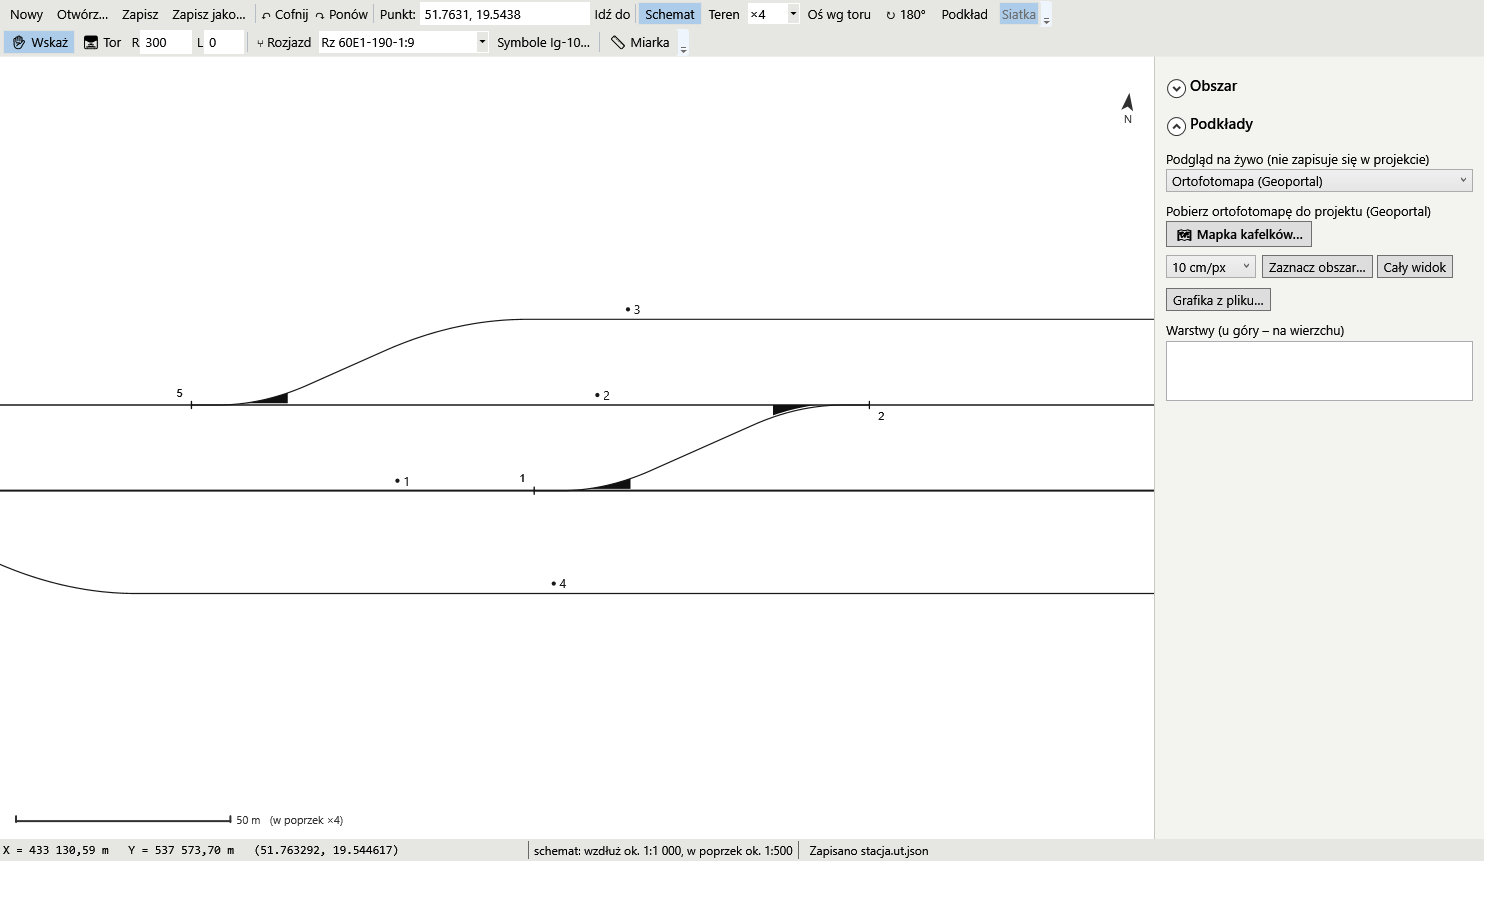
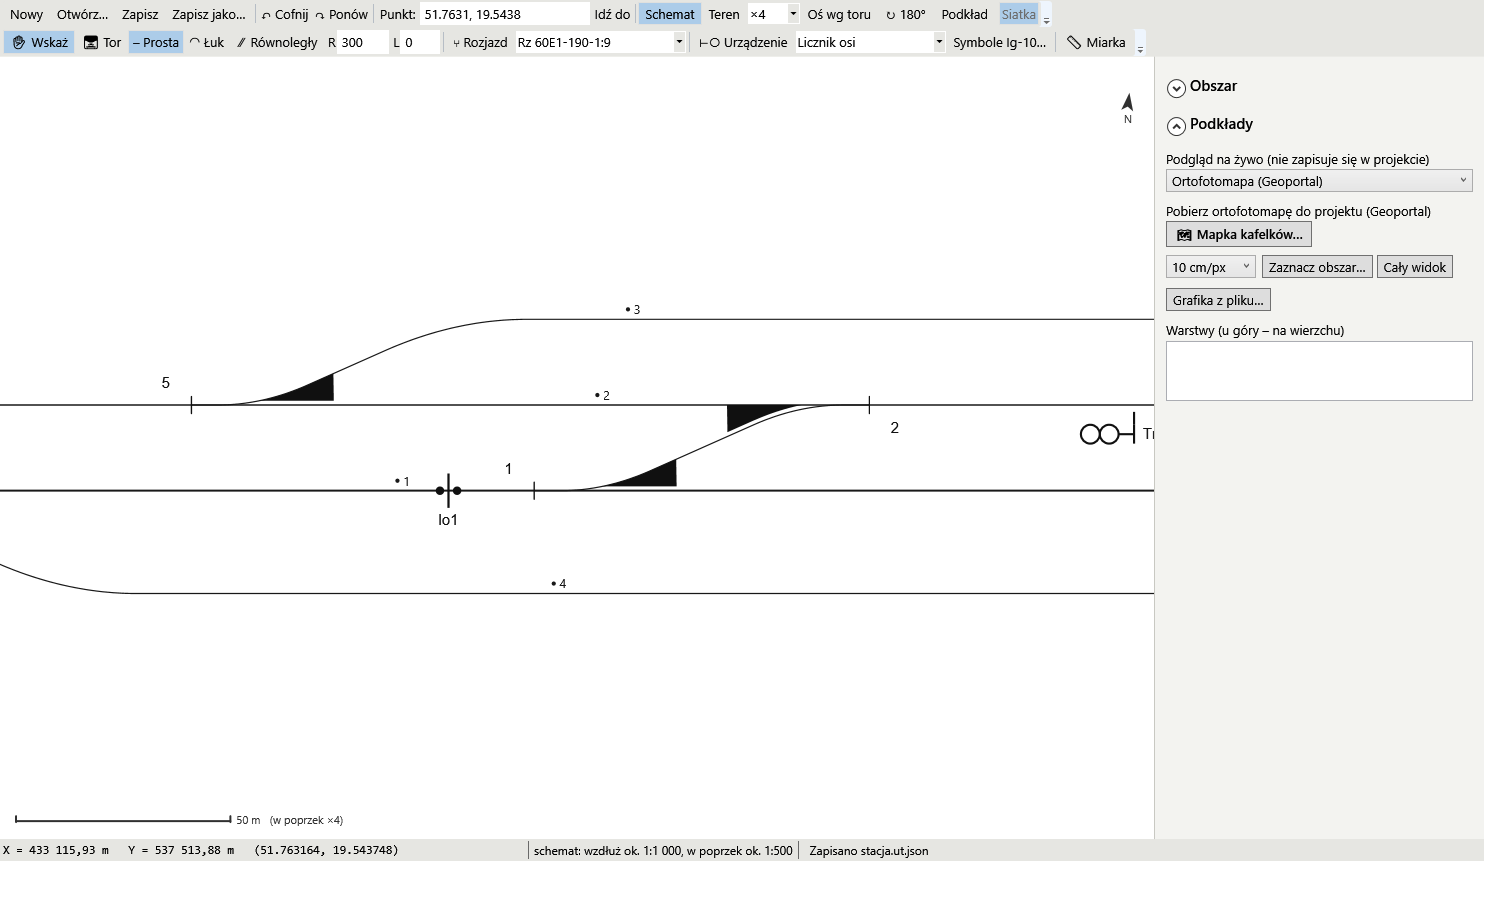
Edytor UT: znaki w skali arkusza Ig-10 (1:2000 / 1:500), oś schematu wg kilometrażu
- PxPerMm = (skala / 4000 m) · rozciągnięcie / mpp – znaki skalują się razem z torami
  jak na arkuszu (dotąd przycięte 2,2–3,6 px/mm niezależnie od rysunku); napisy 10–15 px,
  ukryte poniżej 1 px/mm.
- Skala arkusza w panelu: 1:2000 / 1:500 albo 1:4000 / 1:1000 (Ig-10 § 3).
- Oś schematu: kilometraż rośnie od lewej do prawej (kierunek toru), Ig-10 § 3 ust. 3.
- Test: 0 błędów.

diff --git a/app/Lcs.EdytorUT/UtView.Urzadzenia.cs b/app/Lcs.EdytorUT/UtView.Urzadzenia.cs
@@ -111,8 +111,8 @@ public partial class UtView
     static readonly Pen DevPen = FrozenPen(Color.FromRgb(0x10, 0x10, 0x10), 1.2), DevThick = FrozenPen(Color.FromRgb(0x10, 0x10, 0x10), 2.2);
     static readonly Brush DevInk = Frozen(Color.FromRgb(0x10, 0x10, 0x10));
 
-    /// <summary>Px na mm dla znaków urządzeń: jak rozjazdy, ale nie mniej niż 2,8 (komory semafora czytelne przy oddaleniu).</summary>
-    double DevK => Math.Max(PxPerMm, 2.8);
+    /// <summary>Px na mm dla znaków urządzeń – skala arkusza (jak rozjazdy i tory).</summary>
+    double DevK => PxPerMm;
 
     void DrawDevices(DrawingContext dc, double dpi)
     {
@@ -124,8 +124,8 @@ public partial class UtView
             if (Urzadzenia.Pos(Doc.P, d) is not var (p, az, _)) continue;
             var b = ToScreen(p);
             if (b.X < -100 || b.Y < -100 || b.X > ActualWidth + 100 || b.Y > ActualHeight + 100) continue;
-            if (d.Id == SelectedDevice) dc.DrawEllipse(RzSel, null, b, 7 * PxPerMm / 2.2, 7 * PxPerMm / 2.2);
-            DrawDevice(dc, d, b, ScreenDir(az), DevK, DevInk, dpi);
+            if (d.Id == SelectedDevice) dc.DrawEllipse(RzSel, null, b, Math.Max(8, 4 * PxPerMm), Math.Max(8, 4 * PxPerMm));
+            DrawDevice(dc, d, b, ScreenDir(az), DevK, DevInk, dpi, LabelsOn);
             var notes = Urzadzenia.Check(Doc.P, d0);
             if (notes.Count > 0) { dc.DrawEllipse(null, ErrPen, b, 9, 9); ErrLabel(dc, (d.Name.Length > 0 ? d.Name + ": " : "") + string.Join("; ", notes), b, dpi); }
         }
@@ -140,7 +140,7 @@ public partial class UtView
                 var (sk, dir, side) = DevFromDrag(track, km, hs);
                 var g = new UtDevice { Kind = DevKind, Name = Urzadzenia.NextName(Doc.P, DevKind), Track = track, S = sk, Dir = dir, Side = side };
                 if (Urzadzenia.Pos(Doc.P, g) is var (gp, gaz, _))
-                    DrawDevice(dc, g, ToScreen(gp), ScreenDir(gaz), DevK, Red, dpi);
+                    DrawDevice(dc, g, ToScreen(gp), ScreenDir(gaz), DevK, Red, dpi, true);
                 if (devFrom == null && UtDevice.KindInfo(DevKind).Directed && DevKind != UtDevice.Koziol)
                     Label(dc, "wciśnij i przeciągnij w stronę jazdy, po stronie urządzenia", hs + new Vector(12, 10), Red, dpi);
             }
@@ -151,7 +151,7 @@ public partial class UtView
     /// Znak urządzenia w punkcie <paramref name="b"/> na osi toru: x – w kierunku działania <paramref name="d"/>, y – w stronę urządzenia
     /// (Side), w mm arkusza × <paramref name="k"/>. Komory sygnalizatora od masztu w stronę jazdy (+x), nazwa za stopą (−x).
     /// </summary>
-    static void DrawDevice(DrawingContext dc, UtDevice dv, Point b, Vector d, double k, Brush ink, double dpi)
+    static void DrawDevice(DrawingContext dc, UtDevice dv, Point b, Vector d, double k, Brush ink, double dpi, bool labels)
     {
         var n = new Vector(-d.Y, d.X) * dv.Side;
         Point P(double x, double y) => b + d * (x * k) + n * (y * k);
@@ -164,8 +164,8 @@ public partial class UtView
         }
         void T(string s, double x, double y, double away = 0)
         {
-            if (string.IsNullOrEmpty(s)) return;
-            var ft = new FormattedText(s, CultureInfo.InvariantCulture, FlowDirection.LeftToRight, new Typeface("Arial"), Math.Max(10.5, 1.8 * 1.4 * k), ink, dpi);
+            if (string.IsNullOrEmpty(s) || !labels) return;
+            var ft = new FormattedText(s, CultureInfo.InvariantCulture, FlowDirection.LeftToRight, new Typeface("Arial"), FontPx(k), ink, dpi);
             // away ±1: napis odsunięty od punktu w kierunku ±x znaku o połowę swojej szerokości (nie wchodzi na stopę)
             var c = P(x, y) + d * (away * (ft.Width / 2 + 2));
             dc.DrawText(ft, new Point(c.X - ft.Width / 2, c.Y - ft.Height / 2));

diff --git a/app/Lcs.EdytorUT/UtView.Rozjazdy.cs b/app/Lcs.EdytorUT/UtView.Rozjazdy.cs
@@ -183,7 +183,12 @@ public partial class UtView
     /// Piksele na mm arkusza dla znaków Ig-10: wg skali rysunku, ale w stałym przedziale 2,2–3,6 px/mm (klin 8 mm: 18–29 px) –
     /// znaki czytelne przy oddaleniu i nie puchną przy przybliżaniu.
     /// </summary>
-    public double PxPerMm => Math.Clamp((Doc?.P.DrawingScale ?? 1000) / 1000.0 / mpp, 2.2, 3.6);
+    public double PxPerMm => (Doc?.P.MetresPerSheetMm ?? 0.5) * stretch / mpp;
+
+    /// <summary>Wielkość napisów [px]: tekst 1,8 mm arkusza, ale w granicach 10–15 px (czytelny przy każdym przybliżeniu).</summary>
+    public static double FontPx(double k) => Math.Clamp(1.8 * 1.4 * k, 10, 15);
+    /// <summary>Napisy przy znakach (numery rozjazdów, nazwy urządzeń) – gdy znaki mają co najmniej 1 px/mm.</summary>
+    public bool LabelsOn => PxPerMm >= 1;
 
     /// <summary>Znak rozjazdu z bazy symboli Ig-10 (Dane/symbole_ig10.json): zaczepiony w PR, wzdłuż toru w stronę KR, po stronie odgałęzienia.</summary>
     public static string SymbolFor(UtTurnout t) => t.Manual ? "rz_nieuzal" : t.Zas == "-" ? "rz_uzal_zwrot" : "rz_uzal_wprost";
@@ -200,7 +205,7 @@ public partial class UtView
         if (pr.X < -150 || pr.Y < -150 || pr.X > ActualWidth + 150 || pr.Y > ActualHeight + 150) return;
         double k = PxPerMm;
         var dir = ScreenDir(g.Az);
-        if (sel) dc.DrawEllipse(RzSel, null, pr + dir * (4 * k), 6 * k, 6 * k);
+        if (sel) dc.DrawEllipse(RzSel, null, pr + dir * (4 * k), Math.Max(9, 6 * k), Math.Max(9, 6 * k));
         // odgałęzienie z geometrii typu: PR – ŚR (łuk R) – KR na zwrot
         var br = Trasa.Compute(new[] { new UtVertex { X = g.PR.X, Y = g.PR.Y }, new UtVertex { X = g.SR.X, Y = g.SR.Y, R = g.Typ.R }, new UtVertex { X = g.KRDiv.X, Y = g.KRDiv.Y } }, g.K);
         var pts = br.Sample(0.5).Select(q => ToScreen(q.P)).ToList();
@@ -217,8 +222,8 @@ public partial class UtView
     {
         var nn = new Vector(-d.Y, d.X);
         dc.DrawLine(StartPen, pr - nn * k, pr + nn * k);
-        if (string.IsNullOrEmpty(nr)) return;
-        var ft = new FormattedText(nr, CultureInfo.InvariantCulture, FlowDirection.LeftToRight, new Typeface("Arial"), Math.Max(10.5, 1.8 * 1.4 * k), WedgeInk, dpi);
+        if (string.IsNullOrEmpty(nr) || !LabelsOn) return;
+        var ft = new FormattedText(nr, CultureInfo.InvariantCulture, FlowDirection.LeftToRight, new Typeface("Arial"), FontPx(k), WedgeInk, dpi);
         var c = pr - d * (2.5 * k + ft.Width / 2) + n * (1.6 * k + ft.Height / 2);
         dc.DrawText(ft, new Point(c.X - ft.Width / 2, c.Y - ft.Height / 2));
     }
@@ -320,9 +325,12 @@ public partial class UtView
             }
             var nA = new Vector(-dA.Y, dA.X);
             dc.DrawLine(StartPen, ps - nA * k, ps + nA * k);
-            var ft = new FormattedText(c.Number, CultureInfo.InvariantCulture, FlowDirection.LeftToRight, new Typeface("Arial"), Math.Max(10.5, 1.8 * 1.4 * k), WedgeInk, dpi);
-            var tc = ps - n * (2.2 * k + ft.Height / 2);
-            dc.DrawText(ft, new Point(tc.X - ft.Width / 2, tc.Y - ft.Height / 2));
+            if (LabelsOn)
+            {
+                var ft = new FormattedText(c.Number, CultureInfo.InvariantCulture, FlowDirection.LeftToRight, new Typeface("Arial"), FontPx(k), WedgeInk, dpi);
+                var tc = ps - n * (2.2 * k + ft.Height / 2);
+                dc.DrawText(ft, new Point(tc.X - ft.Width / 2, tc.Y - ft.Height / 2));
+            }
             return;
         }
         // skrzyżowanie: znak z bazy Ig-10 w punkcie matematycznym; strona – w którą stronę od toru A idzie tor B na końcu +x

diff --git a/app/Lcs.Model/UtProject.cs b/app/Lcs.Model/UtProject.cs
@@ -13,8 +13,11 @@ public class UtProject
     public string Name { get; set; } = "Nowy obszar";
     /// <summary>Układ współrzędnych – zawsze PUWG 1992.</summary>
     public string Crs { get; set; } = "EPSG:2180";
-    /// <summary>Skala rysunku 1:N – wielkość symboli Ig-10 (mm arkusza) i wydruku. Geometria od niej nie zależy.</summary>
-    public int DrawingScale { get; set; } = 1000;
+    /// <summary>
+    /// Skala podłużna arkusza 1:N (Ig-10 § 3: 1:2000, za zgodą 1:4000); poprzeczna = N / 4 (1:500 / 1:1000). Znaki Ig-10 mają wymiary
+    /// w mm tego arkusza: 1 mm = N / 4000 m w poprzek osi. Geometria od niej nie zależy.
+    /// </summary>
+    public int DrawingScale { get; set; } = 2000;
     /// <summary>Uwagi projektanta.</summary>
     public string Notes { get; set; } = "";
     /// <summary>Podkłady od dołu do góry (ortofotomapy, grafiki).</summary>
@@ -35,7 +38,9 @@ public class UtProject
     /// <summary>Ostatni widok edytora (nie podlega cofaniu).</summary>
     public UtViewState View { get; set; } = new();
 
-    public static readonly int[] DrawingScales = { 500, 1000, 2000 };
+    public static readonly int[] DrawingScales = { 2000, 4000 };
+    /// <summary>Metry terenu (w poprzek osi) na 1 mm arkusza – wielkość znaków Ig-10.</summary>
+    public double MetresPerSheetMm => DrawingScale / 4000.0;
 
     /// <summary>Oś schematu [rad]: wpisana albo cięciwa najdłuższego toru (zwrócona na wschód); bez torów – wschód.</summary>
     public double SchematAz()
@@ -49,7 +54,8 @@ public class UtProject
             if (l > bl) { bl = l; best = t; }
         }
         if (best == null) return Math.PI / 2;
-        return EastFacing(Trasa.Az(best.Vertices[0].P, best.Vertices[^1].P));
+        // Ig-10 § 3 ust. 3: kilometraż rośnie od lewej do prawej – oś w kierunku toru (od początku do końca)
+        return Trasa.Az(best.Vertices[0].P, best.Vertices[^1].P);
     }
 
     /// <summary>Kierunek zwrócony na wschód (składowa Y ≥ 0), w przedziale [0, π).</summary>

diff --git a/app/Lcs.EdytorUT/Test.cs b/app/Lcs.EdytorUT/Test.cs
@@ -130,19 +130,20 @@ public static partial class Test
         Ok(w.Title.StartsWith("* Stacja testowa"), "tytuł okna: gwiazdka i nazwa");
         Type(w.NameBox, "Stacja testowa");
         Ok(d.UndoName == "Nazwa obszaru" && UndoDepth(w) == 1, "ta sama nazwa – bez nowej zmiany");
-        w.ScaleBox.SelectedIndex = 2;
-        Ok(d.P.DrawingScale == 2000 && d.UndoName == "Skala rysunku", "skala rysunku 1:2000 z listy");
+        Ok(d.P.DrawingScale == 2000 && w.ScaleBox.SelectedIndex == 0, "skala arkusza domyślnie 1:2000 / 1:500 (Ig-10 § 3)");
+        w.ScaleBox.SelectedIndex = 1;
+        Ok(d.P.DrawingScale == 4000 && d.UndoName == "Skala rysunku", "skala arkusza 1:4000 / 1:1000 z listy");
         Type(w.NotesBox, "uwaga 1");
         Ok(d.P.Notes == "uwaga 1", "uwagi");
 
         // --- cofnij / ponów
-        w.DoUndo(); Ok(d.P.Notes == "" && d.P.DrawingScale == 2000, "Ctrl+Z: uwagi cofnięte");
-        Click(w.UndoBtn); Ok(d.P.DrawingScale == 1000 && w.ScaleBox.SelectedIndex == 1, "Cofnij: skala 1:1000, lista w panelu też");
+        w.DoUndo(); Ok(d.P.Notes == "" && d.P.DrawingScale == 4000, "Ctrl+Z: uwagi cofnięte");
+        Click(w.UndoBtn); Ok(d.P.DrawingScale == 2000 && w.ScaleBox.SelectedIndex == 0, "Cofnij: skala 1:2000, lista w panelu też");
         Click(w.UndoBtn); Ok(d.P.Name == "Nowy obszar" && w.NameBox.Text == "Nowy obszar", "Cofnij: nazwa, pole w panelu też");
         Ok(!w.UndoBtn.IsEnabled && w.RedoBtn.IsEnabled, "nic więcej do cofnięcia, jest co ponowić");
         Ok(!d.Undo(), "kolejne cofnięcie nic nie robi");
         Click(w.RedoBtn); Click(w.RedoBtn);
-        Ok(d.P.Name == "Stacja testowa" && d.P.DrawingScale == 2000 && d.P.Notes == "", "Ponów ×2: nazwa i skala wróciły");
+        Ok(d.P.Name == "Stacja testowa" && d.P.DrawingScale == 4000 && d.P.Notes == "", "Ponów ×2: nazwa i skala wróciły");
 
         // --- widok: idź do, kółko myszy, przeciąganie
         w.View.Focus();

diff --git a/app/Lcs.EdytorUT/MainWindow.cs b/app/Lcs.EdytorUT/MainWindow.cs
@@ -178,8 +178,8 @@ public partial class MainWindow : Window
         sp.Children.Add(NameBox);
         sp.Children.Add(Label("Układ współrzędnych"));
         sp.Children.Add(new TextBlock { Text = "PUWG 1992 (EPSG:2180)\nX – na północ, Y – na wschód, Z – wysokość [m]", Margin = new Thickness(0, 2, 0, 8), Foreground = Brushes.DimGray, TextWrapping = TextWrapping.Wrap });
-        sp.Children.Add(Label("Skala rysunku (wielkość symboli Ig-10, wydruk)"));
-        foreach (var k in UtProject.DrawingScales) ScaleBox.Items.Add($"1:{k}");
+        sp.Children.Add(Label("Skala arkusza (Ig-10 § 3) – wielkość znaków, wydruk"));
+        foreach (var k in UtProject.DrawingScales) ScaleBox.Items.Add($"1:{k} wzdłuż, 1:{k / 4} w poprzek");
         ScaleBox.SelectionChanged += (s, e) =>
         {
             if (refreshing || ScaleBox.SelectedIndex < 0) return;
@@ -233,7 +233,8 @@ public partial class MainWindow : Window
     public void AxisFromTrack()
     {
         var t = Doc.P.Tracks.FirstOrDefault(x => x.Id == View.SelectedTrack);
-        double? az = t != null && t.Vertices.Count >= 2 ? UtProject.EastFacing(Trasa.Az(t.Vertices[0].P, t.Vertices[^1].P)) * 180 / Math.PI : null;
+        // Ig-10 § 3 ust. 3: kilometraż rośnie od lewej do prawej – oś w kierunku toru
+        double? az = t != null && t.Vertices.Count >= 2 ? (Trasa.Az(t.Vertices[0].P, t.Vertices[^1].P) * 180 / Math.PI + 360) % 360 : null;
         Doc.Change("Oś schematu", p => p.AxisAz = az);
         if (!View.Schemat) SetSchemat(true); else ApplyMode(true);
         Message(t != null ? $"Oś schematu wzdłuż toru {t.Number} (azymut {az:0.###}°)" : "Oś schematu wzdłuż najdłuższego toru");

diff --git a/app/Lcs.EdytorUT/Test.Schemat.cs b/app/Lcs.EdytorUT/Test.Schemat.cs
@@ -62,8 +62,10 @@ public static partial class Test
         Ok(XY.Dist(before, w.View.ToWorld(sp)) < 1e-6, "Schemat: kółko myszy – punkt pod kursorem zostaje");
         var c0 = w.View.ToWorld(new Point(500, 300)); w.View.PanBy(new Vector(40, -25));
         Ok(XY.Dist(w.View.ToWorld(new Point(540, 275)), c0) < 1e-6, "Schemat: przeciąganie – punkt jedzie za myszą");
-        Look(r1.At(700).P, 2); double kFar = w.View.PxPerMm; Look(r1.At(700).P, 0.02); double kNear = w.View.PxPerMm;
-        Ok(kFar >= 2.2 && kNear <= 3.6, $"znaki Ig-10: {kFar:0.0} px/mm oddalone, {kNear:0.0} px/mm przybliżone (nie puchną)");
+        Look(r1.At(700).P, 2); double kFar = w.View.PxPerMm; Look(r1.At(700).P, 0.5); double kNear = w.View.PxPerMm;
+        double gapPx = Math.Abs(S(r2.At(700).P).Y - S(r1.At(700).P).Y);
+        Ok(Math.Abs(kFar - 1) < 1e-9 && Math.Abs(kNear - 4) < 1e-9 && Math.Abs(gapPx / kNear - 5 * k / 0.5) < 0.05,
+            $"znaki w skali arkusza Ig-10 (1:2000 / 1:500): {kFar:0.0} px/mm przy 2 m/px, {kNear:0.0} px/mm przy 0,5 m/px; międzytorze 5 m = {gapPx / kNear:0.0} mm arkusza");
 
         // --- w schemacie: łącznik 1/2 (tor 1 → tor 2) i 3/4
         w.SetTool(UtTool.Rozjazd); w.RzTypeBox.SelectedItem = "Rz 60E1-190-1:9"; w.NewRBox.Text = "300";

diff --git a/app/Lcs.EdytorUT/SymbolPainter.cs b/app/Lcs.EdytorUT/SymbolPainter.cs
@@ -46,7 +46,7 @@ public static class SymbolPainter
                     var txt = (p.Text ?? "").Replace("{nr}", nr ?? "");
                     if (txt.Length == 0) break;
                     // wysokość wersalików H mm → rozmiar czcionki ok. 1,4·H; nie mniej niż 10 px
-                    var ft = new FormattedText(txt, CultureInfo.InvariantCulture, FlowDirection.LeftToRight, Font, Math.Max(10, p.H * 1.4 * pxPerMm), ink, dpi);
+                    var ft = new FormattedText(txt, CultureInfo.InvariantCulture, FlowDirection.LeftToRight, Font, Math.Clamp(p.H * 1.4 * pxPerMm, 10, 15), ink, dpi);
                     var c = P(p.At);
                     dc.DrawRoundedRectangle(Halo, null, new Rect(c.X - ft.Width / 2 - 2, c.Y - ft.Height / 2, ft.Width + 4, ft.Height), 2, 2);
                     dc.DrawText(ft, new Point(c.X - ft.Width / 2, c.Y - ft.Height / 2));

diff --git a/app/Lcs.Model/UtDocument.cs b/app/Lcs.Model/UtDocument.cs
@@ -41,7 +41,7 @@ public class UtDocument
         var p = Deserialize(File.ReadAllText(path));
         if (p.Crs != "EPSG:2180") throw new InvalidDataException($"Nieznany układ współrzędnych „{p.Crs}” – edytor obsługuje PUWG 1992 (EPSG:2180)");
         p.View ??= new UtViewState();
-        if (!UtProject.DrawingScales.Contains(p.DrawingScale)) p.DrawingScale = 1000;
+        if (!UtProject.DrawingScales.Contains(p.DrawingScale)) p.DrawingScale = 2000;     // dawne 1:500 / 1:1000 – skala Ig-10
         p.Backgrounds ??= new();
         p.Tracks ??= new();
         p.Turnouts ??= new(); p.Crossings ??= new(); p.Devices ??= new();

diff --git a/ROZWOJ.md b/ROZWOJ.md
@@ -200,6 +200,8 @@ Decyzja właściciela (2026-10-16): edytory UT i zobrazowania budujemy od nowa j
 - Znaki (`UtView.Urzadzenia.cs`): sygnalizatory „A ⊢○○○” – nazwa, stopa, maszt, komory w stronę jazdy, której dotyczą (Ig-10 s. 27; poprawione po uwadze właściciela – najpierw były odwrotnie); wykolejnica – kreska z grotem w stronę wykolejenia; kozioł – belka; licznik osi – kreska z dwiema kropkami; złącze; ukres w międzytorzu. Wielkość jak rozjazdy, nie mniej niż 2,8 px/mm.
 - Test: 281 sprawdzeń, 0 błędów (semafory A / B przeciągnięciem w obie strony, Tm1, kozioł na końcu bocznicy, Wk1, lo1 / lo2, panel, zajęta nazwa, przeciąganie, strzałka, menu, Del, zapis z urządzeniami). Zrzut: `zrzuty/EdytorUT_urzadzenia.png`.
 
+**ZROBIONE 2026-10-16 – wielkość znaków wg skali arkusza Ig-10** (właściciel: „rozmiary symboli są zepsute”): Ig-10 § 3 – schemat 1:2000 wzdłuż, 1:500 w poprzek (za zgodą 1:4000 / 1:1000), wymiary znaków zał. 8 w mm tego arkusza. Dotąd px/mm był przycięty do 2,2–3,6 (urządzenia ≥ 2,8) niezależnie od rysunku, więc proporcje znaków do torów zmieniały się z przybliżeniem. Teraz `PxPerMm = (skala / 4000 m) · rozciągnięcie / mpp` – przy ×4 ekran jest arkuszem (1 mm = 2 m wzdłuż = 0,5 m w poprzek), znaki skalują się razem z torami (sprawdzone na wzorze ISDR: międzytorze 5 m = 10 mm ≈ 30 px, komora Ø 2 mm ≈ 6 px). Napisy 10–15 px, chowane poniżej 1 px/mm. Skala arkusza w panelu: „1:2000 wzdłuż, 1:500 w poprzek” albo 1:4000 / 1:1000 (dawne 1:500 / 1:1000 / 1:2000 w plikach → 1:2000). Oś schematu wg Ig-10 § 3 ust. 3: kilometraż rośnie od lewej do prawej – kierunek toru od początku do końca (dawniej „na wschód”).
+
 **Następny krok:** etap 5, część 2 – odcinki kontroli niezajętości (nazwy, granice z liczników osi / złączy, „Sprawdź”), wskaźniki W4 / W5, perony, przejazdy, kilometraż
 
 **Z dawnego etapu 1 – dotyczy symulatora (zostaje):**

diff --git a/PLAN_EDYTOR_UT.md b/PLAN_EDYTOR_UT.md
@@ -106,7 +106,7 @@ Znaki wg Ig-10 zał. 8: semafor świetlny (s. 27), tarcza ostrzegawcza (s. 27–
 1. **Model `UtDevice`** (`Lcs.Model/UtDevice.cs`): rodzaj, nazwa (opis z planu, np. „A”, „Tm12”, „Wk3”), tor + kilometraż S [m w terenie], kierunek działania `Dir` (+1 – dla jazdy w stronę rosnącego km toru), strona `Side` (+1 – po prawej patrząc w kierunku działania), dla semafora liczba komór. Położenie wynika z toru: po przesunięciu toru urządzenie jedzie razem z nim. Usunięcie toru usuwa jego urządzenia.
 2. **Narzędzie Urządzenie (U)**, rodzaj z listy na pasku. Wciśnij na torze w miejscu urządzenia i przeciągnij w stronę jazdy, której dotyczy, po stronie, po której stoi. Urządzenia bez kierunku (kozioł, licznik, złącze, ukres) – samo kliknięcie. Nazwę wpisuje projektant (okno z podpowiedzią kolejnej wolnej).
 3. **Wskaż:** klik zaznacza, przeciągnięcie przesuwa wzdłuż toru, strzałki 0,1 / 1 m, Del usuwa, PPM – menu (zmień stronę, odwróć kierunek, usuń); panel: nazwa, km, kierunek, strona, liczba komór.
-4. **Rysowanie:** znak w mm arkusza (2,2–3,6 px/mm jak rozjazdy), maszt po stronie urządzenia, komory w stronę jazdy, której dotyczy (Ig-10 „A ⊢○⊘”), nazwa przy stopie.
+4. **Rysowanie:** znak w mm arkusza Ig-10 (1:2000 / 1:500 – skaluje się razem z torami, jak wydruk), maszt po stronie urządzenia, komory w stronę jazdy, której dotyczy (Ig-10 „A ⊢○⊘”), nazwa przy stopie.
 5. **Część 2 (następna):** odcinki kontroli niezajętości (nazwy, granice z liczników osi / złączy, „Sprawdź”), wskaźniki W4 / W5, perony, przejazdy, kilometraż.
 
 ## 6. Pytania do właściciela
